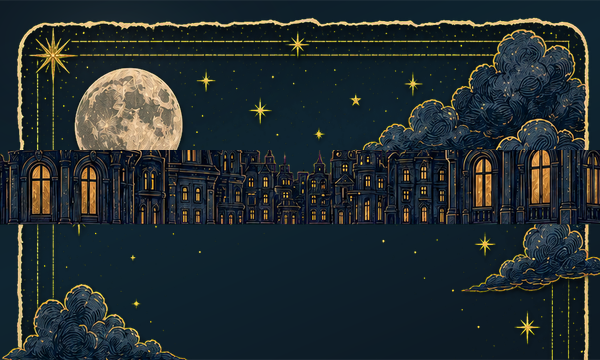
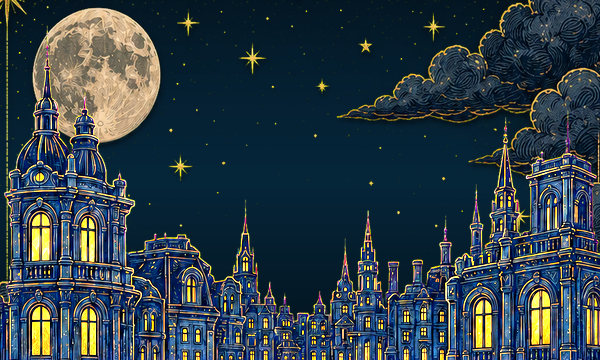
Regenerate clean theme thumbnails (fix Midnight's floating skyline + edge streaks)
Rebuild all three "Choose a look" thumbnails from the theme layers: sky gradient +
celestial (moon/sun) cropped inside the frame so the dashed border no longer streaks
the edges, and the skyline pinned to the bottom. Fixes Midnight, whose skyline was
floating as a band across the middle. Bump cache to v24.

Claude-Session: https://claude.ai/code/session_01DTy7pBZuajJpnbb81u4e1k

diff --git a/index.html b/index.html
@@ -20,7 +20,7 @@
     <link rel="alternate icon" href="./icon-192.png" type="image/png" />
     <link rel="apple-touch-icon" href="./apple-touch-icon.png" />
     <title>The Heart Cut</title>
-    <link rel="stylesheet" href="./styles.css?v=23" />
+    <link rel="stylesheet" href="./styles.css?v=24" />
   </head>
   <body>
     <main id="app"></main>
@@ -31,6 +31,6 @@
       </p>
     </noscript>
     <!-- A classic deferred script also runs from file:// in Safari. ES modules do not. -->
-    <script defer src="./app.js?v=23"></script>
+    <script defer src="./app.js?v=24"></script>
   </body>
 </html>

diff --git a/sw.js b/sw.js
@@ -1,4 +1,4 @@
-const CACHE = "heart-cut-v23";
+const CACHE = "heart-cut-v24";
 const SFX_ASSETS = [
   "./assets/audio/shuffle/1.ogg", "./assets/audio/shuffle/2.ogg", "./assets/audio/shuffle/3.ogg", "./assets/audio/shuffle/4.ogg",
   "./assets/audio/shuffle/5.ogg", "./assets/audio/shuffle/6.ogg", "./assets/audio/shuffle/7.ogg", "./assets/audio/shuffle/8.ogg",
@@ -8,7 +8,7 @@ const SFX_ASSETS = [
   "./assets/audio/take/1.ogg", "./assets/audio/take/2.ogg",
   "./assets/audio/flip/1.ogg", "./assets/audio/flip/2.ogg"
 ];
-const ASSETS = ["./", "./index.html", "./styles.css?v=23", "./app.js?v=23", "./manifest.webmanifest", "./icon.svg", ...SFX_ASSETS];
+const ASSETS = ["./", "./index.html", "./styles.css?v=24", "./app.js?v=24", "./manifest.webmanifest", "./icon.svg", ...SFX_ASSETS];
 
 self.addEventListener("install", (event) => {
   event.waitUntil(caches.open(CACHE).then((cache) => cache.addAll(ASSETS)));